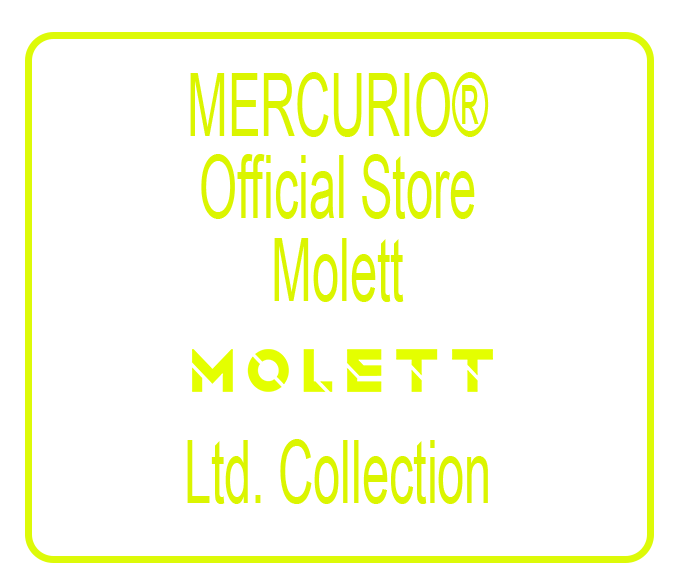
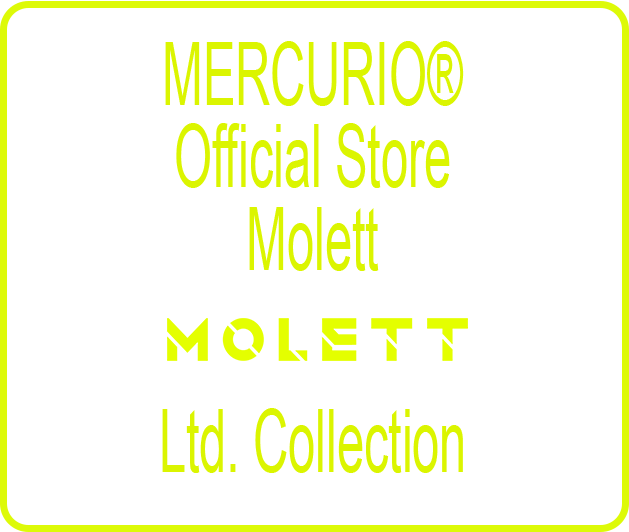
style: responsivity adjusts

Changed region(s): [[0.0, 0.0, 1.0, 1.0], [0.2417, 0.7218, 0.7552, 0.9023], [0.2417, 0.5714, 0.7552, 0.6917]]

diff --git a/styles/Player.module.scss b/styles/Player.module.scss
@@ -6,9 +6,7 @@ $padding: 1em;
   color: $yellow;
   font-family: 'Marcellus';
   font-size: 1.8em;
-  height: 100vh;
   text-transform: uppercase;
-  width: 100vw;
 
   @media #{$mobile-xs} {
     font-size: 1.3em;
@@ -21,14 +19,15 @@ $padding: 1em;
 
 .player {
   align-items: center;
-  display: flex;
   flex-direction: column;
-  height: 100vh;
+  height: 100%;
+  min-height: 85vh;
   padding: $padding;
 
   @media #{$desktop} {
     align-items: flex-start;
     flex-direction: row;
+    height: 100vh;
   }
 
   &__logo {
@@ -48,10 +47,12 @@ $padding: 1em;
     display: flex;
     flex: 1 1;
     flex-direction: column;
+    height: calc(100vh - 100vw);
+    min-height: 55vh;
 
     @media #{$desktop} {
       flex-direction: row;
-      height: 100%;
+      height: 100vh;
     }
 
     &__spacer {
@@ -61,8 +62,9 @@ $padding: 1em;
     &__info {
       align-items: center;
       display: flex;
-      flex: 2 1;
+      flex: 1 1;
       flex-direction: column;
+      height: 100%;
     }
   }
 
@@ -99,18 +101,19 @@ $padding: 1em;
 
   &__links {
     align-items: center;
+    bottom: 0;
     display: flex;
     flex: 1 1;
     flex-direction: column;
     justify-content: flex-end;
+    left: 0;
+    position: absolute;
+    right: 0;
 
     @media #{$desktop} {
       align-items: flex-end;
       justify-content: flex-start;
-    }
-
-    a {
-      margin: -2% 0;
+      position: unset;
     }
 
     div img {

diff --git a/styles/Intro.module.scss b/styles/Intro.module.scss
@@ -6,7 +6,7 @@
   display: flex;
   flex-direction: column;
   font-family: 'Arial Narrow';
-  height: 100vh;
+  height: 100%;
   left: 0;
   overflow: hidden;
   position: fixed;
@@ -20,7 +20,7 @@
   }
 
   img {
-    max-height: 100vh;
+    max-height: 100%;
     max-width: 100vw;
     object-fit: contain;
   }

diff --git a/styles/globals.css b/styles/globals.css
@@ -3,6 +3,7 @@ body {
   font-family: -apple-system, BlinkMacSystemFont, Segoe UI, Roboto, Oxygen,
     Ubuntu, Cantarell, Fira Sans, Droid Sans, Helvetica Neue, sans-serif;
   margin: 0;
+  overflow: hidden;
   padding: 0;
 }
 

diff --git a/styles/Home.module.scss b/styles/Home.module.scss
@@ -1,5 +1,5 @@
 .container {
-  height: 100vh;
+  height: 100%;
   overflow: hidden;
   width: 100vw;
 
